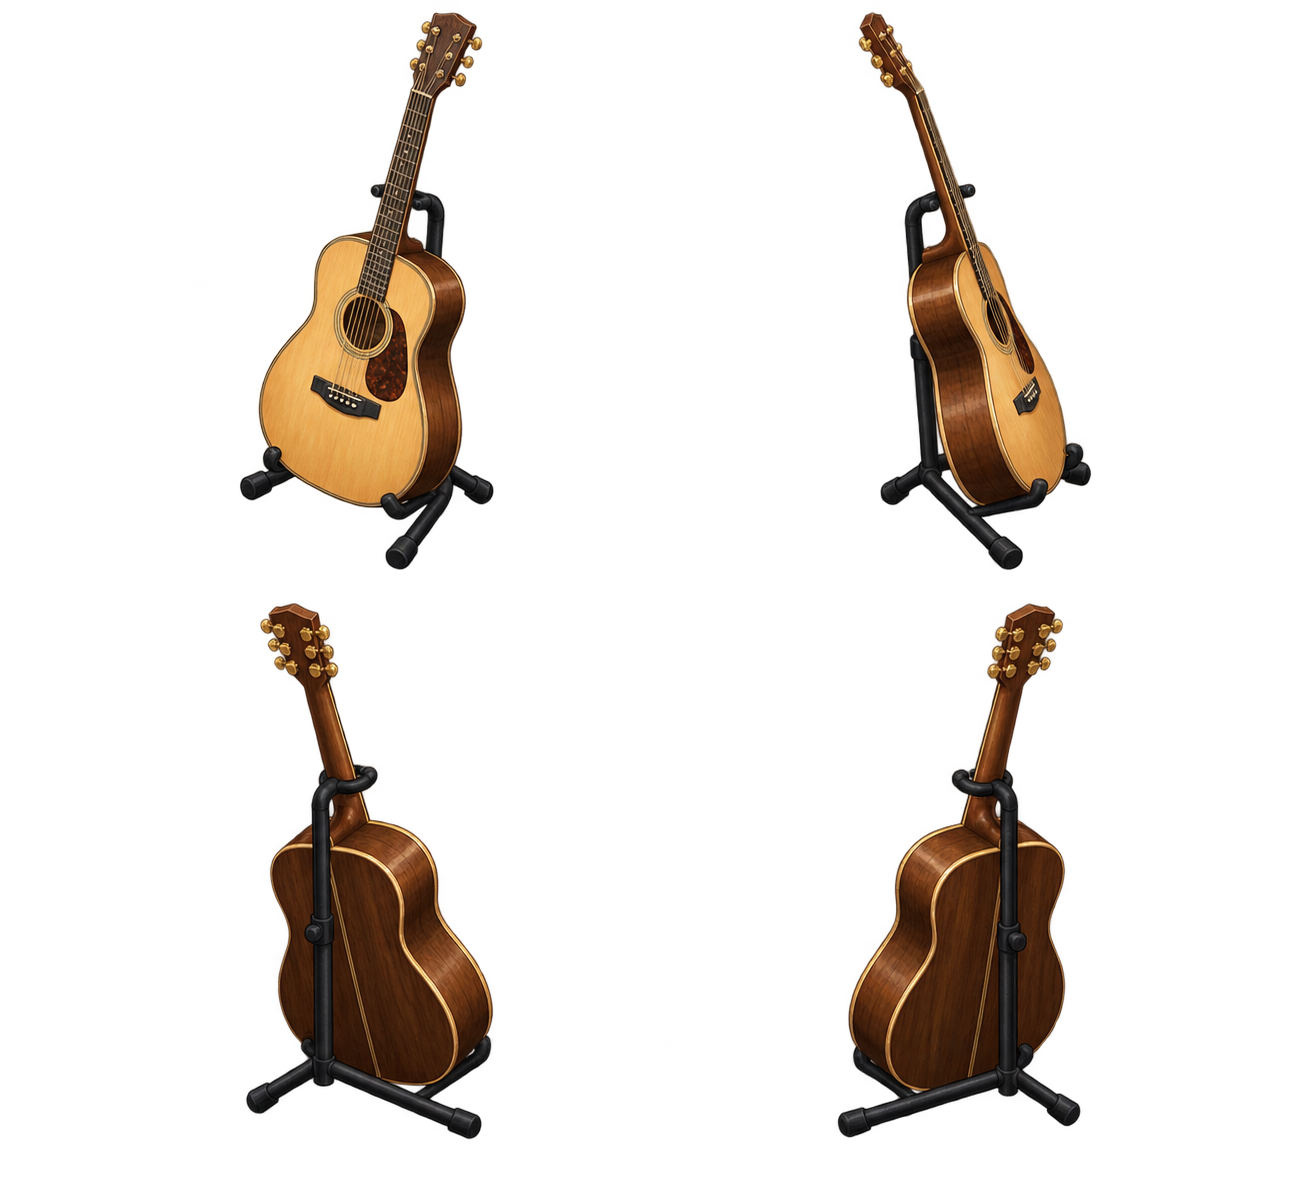
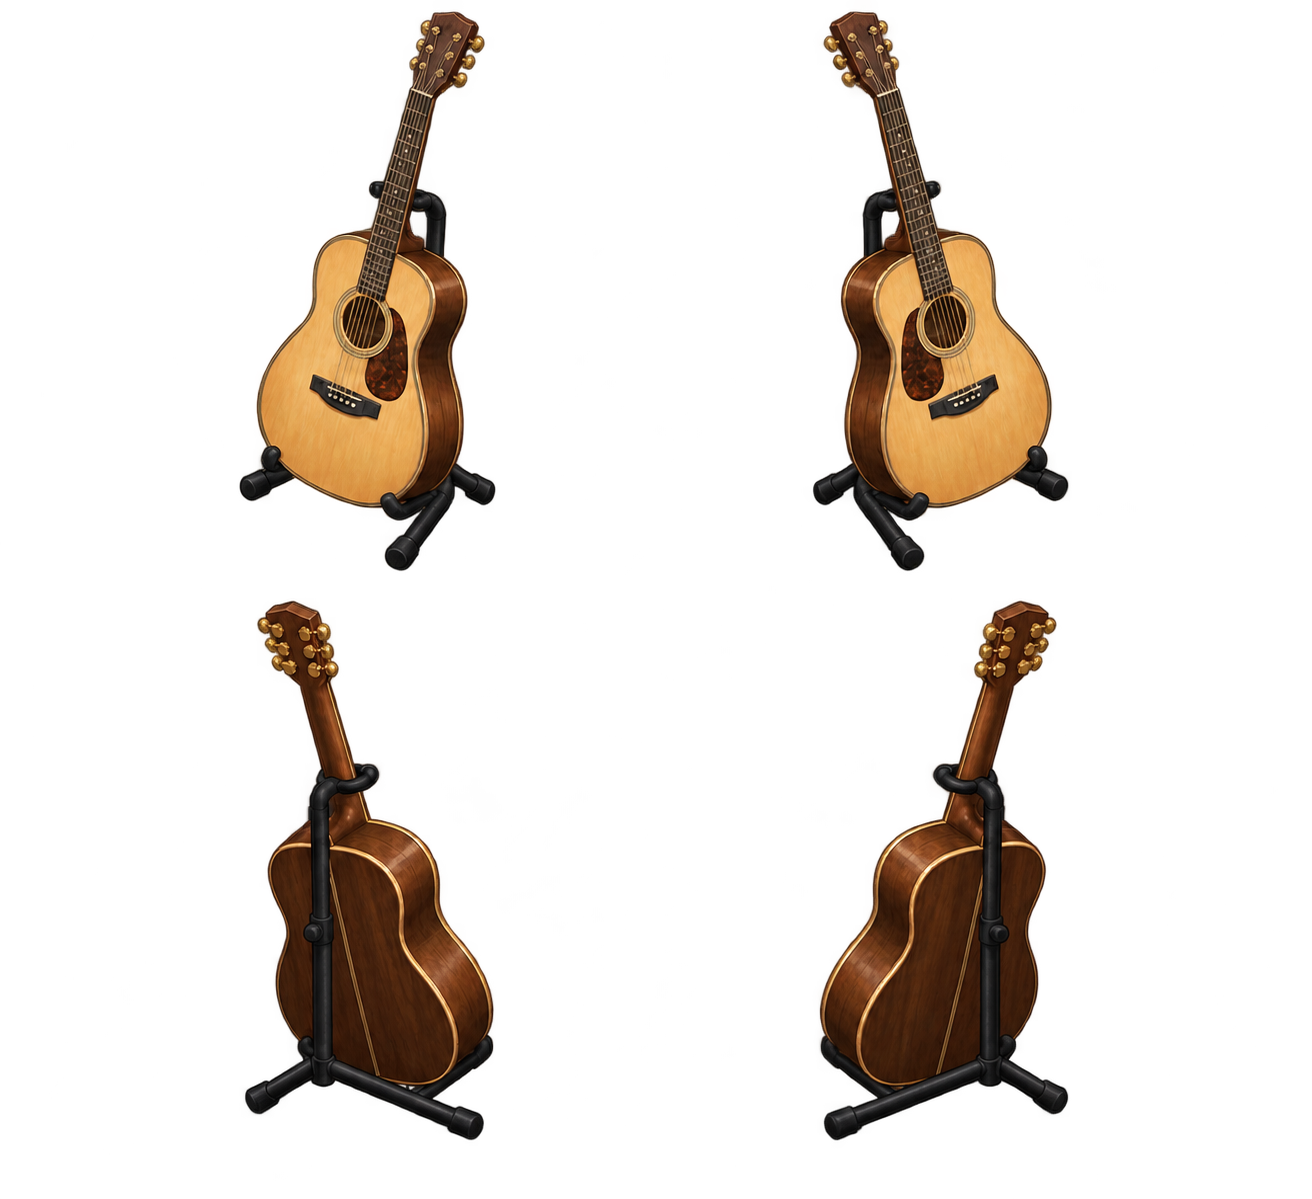
Match second guitar view to mirrored front angle

diff --git a/docs/games/ast-home/mansion.js b/docs/games/ast-home/mansion.js
@@ -74,5 +74,5 @@ function load(src){return new Promise((resolve,reject)=>{const im=new Image();im
 function scan(im){const c=document.createElement('canvas');c.width=im.width;c.height=im.height;const g=c.getContext('2d');g.drawImage(im,0,0);const data=g.getImageData(0,0,c.width,c.height).data;return [0,1,2,3].map(n=>{const sx=Math.floor(n%2*c.width/2),sy=Math.floor(Math.floor(n/2)*c.height/2),ex=Math.floor((n%2+1)*c.width/2),ey=Math.floor((Math.floor(n/2)+1)*c.height/2);let l=ex,r=sx,t=ey,b=sy;for(let y=sy;y<ey;y++)for(let x=sx;x<ex;x++)if(data[(y*c.width+x)*4+3]>40){l=Math.min(l,x);r=Math.max(r,x);t=Math.min(t,y);b=Math.max(b,y)}return {x:l,y:t,w:r-l+1,h:b-t+1}})}
 function renderStore(){const kind=parent?'surface':AREAS[area].kind;$('houseStoreTitle').textContent=parent?'식탁 위 음식':AREAS[area].name+' · 아이템 구매';$('storeHint').textContent=parent?'음식은 식탁 위에만 배치됩니다.':'이 영역에 맞는 아이템만 표시됩니다.';const cards=$('houseCards');cards.replaceChildren();for(const d of HOUSE_ITEMS.filter(d=>d.places.includes(kind))){const b=document.createElement('button');b.className='card';b.dataset.type=d.id;b.disabled=busy||!connected||!supported||state.coins<d.price||(newItems.has(d.id)&&catalogVersion<2);b.classList.toggle('insufficient',b.disabled);const c=document.createElement('canvas');c.width=180;c.height=140;const f=frames[d.id][0],scale=Math.min(165/f.w,130/f.h);c.getContext('2d').drawImage(sprites[d.id],f.x,f.y,f.w,f.h,(180-f.w*scale)/2,(140-f.h*scale)/2,f.w*scale,f.h*scale);const name=document.createElement('strong');name.textContent=d.name;const details=document.createElement('small');details.textContent=newItems.has(d.id)&&catalogVersion<2?'서버 업데이트 필요':d.category+' · '+d.w+' × '+d.h+'셀';const cost=document.createElement('span'),coin=document.createElement('img');coin.src='assets/ui/ast-coin.png';coin.className='ast-coin';coin.alt='아스트';cost.append(coin,document.createTextNode(String(d.price)));b.append(c,name,details,cost);b.onclick=()=>{if(busy||!connected||state.coins<d.price)return;$('houseStore').close();const item={uid:crypto.randomUUID(),type:d.id,area,x:0,y:0,rotation:0};if(parent)item.parent=parent;const bounds=parent?definition(state.items.find(i=>i.uid===parent).type).surface:AREAS[area];let found=false;for(let y=0;y<bounds.h&&!found;y++)for(let x=0;x<bounds.w&&!found;x++){item.x=x;item.y=y;if(canBuild(item,state.items))found=true}if(!found){status('이 영역에 빈 공간이 없습니다.');return}startDraft(item,true)};cards.append(b)}}
 $('houseShop').onclick=async()=>{if(!area||draft||busy)return;renderStore();$('houseStore').showModal();if(shared){$('storeHint').textContent='최신 아스트 잔액 확인 중…';await sync();if(!connected){$('storeHint').textContent='서버 연결을 확인한 뒤 다시 시도하세요.';renderStore();return}renderStore()}};$('houseStoreClose').onclick=()=>$('houseStore').close();
-async function start(){try{const work=[1,2].map(async n=>{backgrounds[n]=await load(n===1?'assets/house/floor-1-approved-v5.png':'assets/house/floor-2.png')});for(const d of HOUSE_ITEMS)work.push((async()=>{const existing=['plant','bookshelf','chair','coffee-table'].includes(d.asset);const im=await load(`assets/${existing?'furniture':'house'}/${d.asset}-4dir.png${d.asset==='tv-console'?'?v=20261019-tv2':''}`);sprites[d.id]=im;frames[d.id]=scan(im)})());await Promise.all(work);ready=true;renderAreas();draw();await sync()}catch(e){status(e.message);$('houseSync').onclick=()=>location.reload()}}
+async function start(){try{const work=[1,2].map(async n=>{backgrounds[n]=await load(n===1?'assets/house/floor-1-approved-v5.png':'assets/house/floor-2.png')});for(const d of HOUSE_ITEMS)work.push((async()=>{const existing=['plant','bookshelf','chair','coffee-table'].includes(d.asset);const im=await load(`assets/${existing?'furniture':'house'}/${d.asset}-4dir.png${d.asset==='tv-console'?'?v=20261019-tv2':d.asset==='guitar'?'?v=20261019-guitar2':''}`);sprites[d.id]=im;frames[d.id]=scan(im)})());await Promise.all(work);ready=true;renderAreas();draw();await sync()}catch(e){status(e.message);$('houseSync').onclick=()=>location.reload()}}
 start();

diff --git a/docs/games/ast-home/index.html b/docs/games/ast-home/index.html
@@ -1,6 +1,6 @@
 <!doctype html>
-<html lang="ko"><head><meta charset="utf-8"><meta name="viewport" content="width=device-width,initial-scale=1"><title>My Home</title><link rel="stylesheet" href="style.css?v=20261019-camera1"><link rel="stylesheet" href="house.css?v=20261019-house3"></head>
+<html lang="ko"><head><meta charset="utf-8"><meta name="viewport" content="width=device-width,initial-scale=1"><title>My Home</title><link rel="stylesheet" href="style.css?v=20261019-camera1"><link rel="stylesheet" href="house.css?v=20261019-house4"></head>
 <body><header><strong>MY HOME <small>우리 집 꾸미기</small></strong><div><span class="ast-balance"><img class="ast-coin" src="assets/ui/ast-coin.png" alt=""><span id="wallet">잔액 확인 중…</span></span><button id="retrySync" hidden>다시 연결</button><button id="shopButton">＋ 아이템 구매</button></div></header>
 <main><div id="zoomControls" aria-label="화면 확대"><button id="zoomOut" aria-label="축소" disabled>−</button><button id="zoomReset" aria-label="100%로 초기화">100%</button><button id="zoomIn" aria-label="확대">＋</button></div><button id="enterMansion" hidden aria-label="본관 실내로 입장">↳ ENTER</button><canvas id="game" width="1536" height="1024" aria-label="가구를 선택하고 바닥 셀을 눌러 배치하는 거실"></canvas><p id="status" role="status">가구 이미지를 불러오는 중…</p><div id="actions" hidden><span id="furnitureDetails"></span><button id="move">✥ 이동</button><button id="rotateSelected">↻ 회전</button></div><div id="placement" hidden><button id="rotateDraft">↻ 회전</button><button id="confirm"><span>O 확정</span><span class="confirm-cost"><img class="ast-coin" src="assets/ui/ast-coin.png" alt="아스트"><span id="confirmCost">0</span></span></button><button id="cancel">X 취소</button></div></main>
 <dialog id="shop"><div class="dialogHeading"><h2>가구 구매</h2><button id="closeShop" aria-label="닫기">✕</button></div><p id="shopNotice">가구를 고른 뒤 바닥 셀에 배치하세요. 확정할 때 아스트가 사용됩니다.</p><div id="catalog"></div><small>구매 확정 시 표시된 아스트가 사용됩니다.</small></dialog>
-<script type="module">if(new URLSearchParams(location.search).get("scene")==="mansion"){import("./mansion.js?v=20261019-house3")}else{import("./game.js?v=20261019-house3")}</script></body></html>
+<script type="module">if(new URLSearchParams(location.search).get("scene")==="mansion"){import("./mansion.js?v=20261019-house4")}else{import("./game.js?v=20261019-house4")}</script></body></html>
